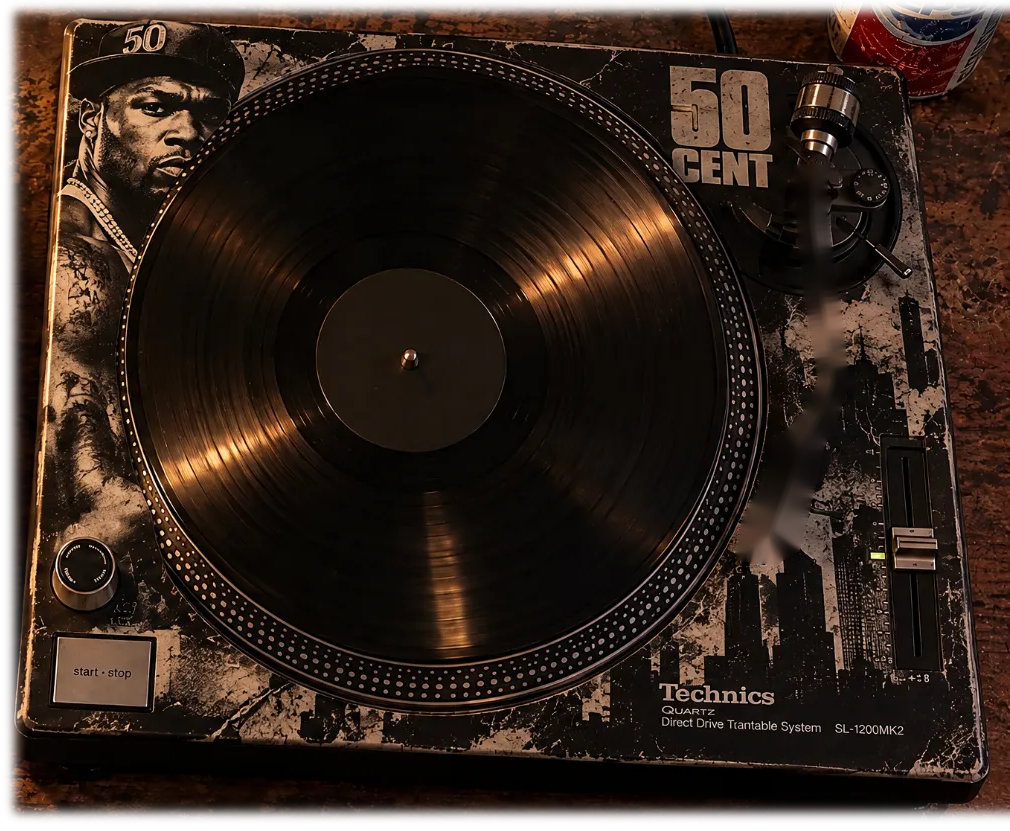
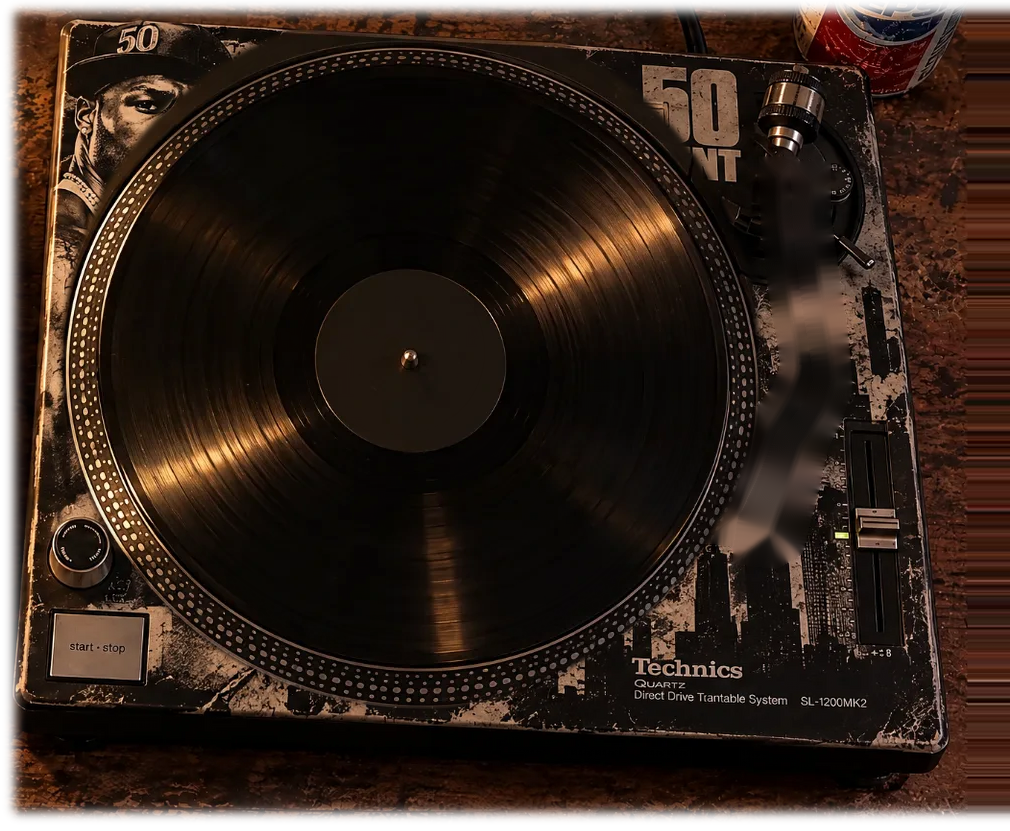
MPC 50 Cent turntable skin: platter recentred so the record spins true

diff --git a/mpc.js b/mpc.js
@@ -511,7 +511,7 @@ let STUDIO=null;
 function ensureStudio(){if(STUDIO)return STUDIO;return STUDIO=(async()=>{IMG=await loadImg('mpc/mpc60.webp');CUT=await loadImg('mpc/mpc60_cut.webp');DESKBG.h=await loadImg('mpc/bg_h.webp?v=1');DESKBG.v=await loadImg('mpc/bg_v.webp?v=1');if(IMG&&CUT)WARM={cut:warmVer(CUT),photo:warmVer(IMG)};sampleColors()})()}
 const SCN={};
 async function ensureScene(fmt){fmt=fmt||ST.fmt;const tall=fmt==='v'||fmt==='c';
- if(packMode()){const k0=ST.pskin||'0',tk=ST.tskin||'0',k=k0+'|'+tk;if(!PSK[k]){let im=await loadImg(k0==='0'?'mpc/pack_h_noarm.webp?v=1':'mpc/pack_h_s'+k0+'.webp?v=2');if(tk!=='0'){const ov=await loadImg('mpc/tt_s'+tk+'.png?v=1'),c2=document.createElement('canvas');c2.width=im.width;c2.height=im.height;const x2=c2.getContext('2d');x2.drawImage(im,0,0);if(ov)x2.drawImage(ov,990,200);im=c2}const cv=document.createElement('canvas');cv.width=DKPV.W;cv.height=DKPV.H;cv.getContext('2d').drawImage(im,-PX,0);PSK[k]={h:im,v:cv}}DESKS.ph=PSK[k].h;DESKS.pv=PSK[k].v;setPackLcd(k0);if(!DESKS.arm)DESKS.arm=await loadImg('mpc/pack_arm.webp?v=1');return}
+ if(packMode()){const k0=ST.pskin||'0',tk=ST.tskin||'0',k=k0+'|'+tk;if(!PSK[k]){let im=await loadImg(k0==='0'?'mpc/pack_h_noarm.webp?v=1':'mpc/pack_h_s'+k0+'.webp?v=2');if(tk!=='0'){const ov=await loadImg('mpc/tt_s'+tk+'.png?v=6'),c2=document.createElement('canvas');c2.width=im.width;c2.height=im.height;const x2=c2.getContext('2d');x2.drawImage(im,0,0);if(ov)x2.drawImage(ov,990,200);im=c2}const cv=document.createElement('canvas');cv.width=DKPV.W;cv.height=DKPV.H;cv.getContext('2d').drawImage(im,-PX,0);PSK[k]={h:im,v:cv}}DESKS.ph=PSK[k].h;DESKS.pv=PSK[k].v;setPackLcd(k0);if(!DESKS.arm)DESKS.arm=await loadImg('mpc/pack_arm.webp?v=1');return}
  if(ST.scene==='white'){await ensureStudio();return}
  if(!tall){if(!DESKS.h)DESKS.h=await loadImg('mpc/desk_nocan.webp?v=1');if(!DESKS.h0&&(ST.can||{}).id==='orig'&&(!ST.skin||ST.skin==='orig'))DESKS.h0=await loadImg('mpc/desk.webp?v=2');if(!DESKS.h)DESKS.h=DESKS.h0}
  else if(!DESKS.v)DESKS.v=await loadImg('mpc/desk_v.webp?v=2');

diff --git a/index.html b/index.html
@@ -1447,7 +1447,7 @@ async function boRender(){
  document.getElementById('bo2b').style.display='none';document.getElementById('bo2c').style.display='none';
  if(window.emailClose)emailClose();if(window.showMakerClose)showMakerClose();if(window.mpcClose)mpcClose();
  if(tab==='email'){document.querySelector('#bo .bo2').style.display='none';if(window.studioClose)studioClose();try{if(!window.emailOpen)await loadScript('email.js?v=4');await emailOpen()}catch(e){toast('EMAIL STUDIO FAILED TO LOAD')}return}
- if(tab==='mpc'){document.querySelector('#bo .bo2').style.display='none';if(window.studioClose)studioClose();try{if(!window.mpcOpen)await loadScript('mpc.js?v=162');await mpcOpen()}catch(e){toast('MPC FAILED TO LOAD')}return}
+ if(tab==='mpc'){document.querySelector('#bo .bo2').style.display='none';if(window.studioClose)studioClose();try{if(!window.mpcOpen)await loadScript('mpc.js?v=163');await mpcOpen()}catch(e){toast('MPC FAILED TO LOAD')}return}
  if(tab==='show'){document.querySelector('#bo .bo2').style.display='none';if(window.studioClose)studioClose();try{if(!window.MZShow)await loadScript('show.js?v=15');if(!window.MZShowFX)await loadScript('showfx.js?v=3');if(!window.showMakerOpen)await loadScript('showmaker.js?v=16');await showMakerOpen()}catch(e){toast('SHOW MAKER FAILED TO LOAD')}return}
  if(vid){try{await loadStudio();await studioOpen()}catch(e){toast('VIDEO STUDIO FAILED TO LOAD')}return}
  if(window.studioClose)studioClose();
